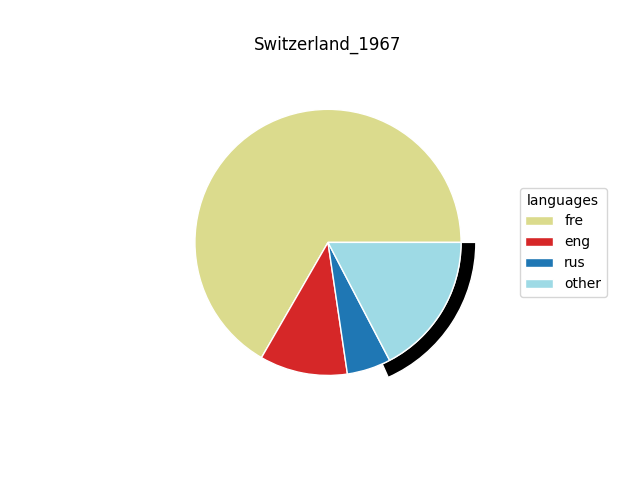
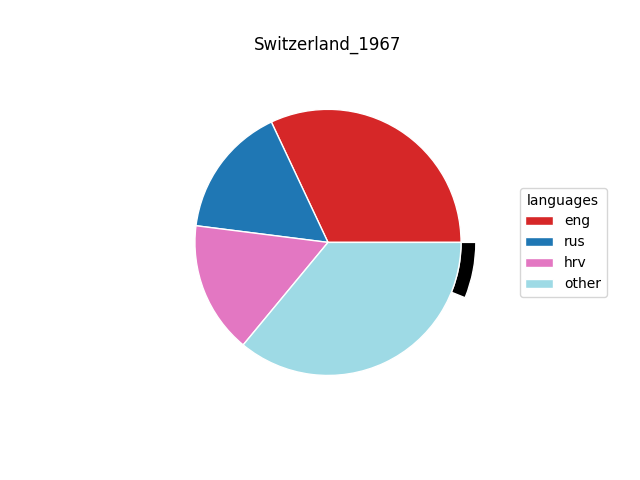
exceptions
exception for Belgium. Czechoslovakia, Switzerland and Yugoslavia

Changed region(s): [[0.2812, 0.2188, 0.7188, 0.7812], [0.8125, 0.5, 0.9375, 0.5625], [0.8125, 0.4375, 0.9375, 0.4688]]

diff --git a/create_pie_charts.py b/create_pie_charts.py
@@ -23,6 +23,8 @@ df = pd.read_excel("D:\\Panuskova\\Nextcloud\\translation-mapping\\translation-m
 countries =["Italy", "Belgium", "United Kingdom", "Czechoslovakia", "Denmark", "Sweden", "Slovakia", "Spain", "Switzerland", "USSR", "Germany (Soviet)", "East Germany",  "Germany", "Yugoslavia", "Poland", "Austria", "Italy", "Hungary"]
 languages = ["rus", "est", "arm", "glg", "ukr", "wen", "eng", "lit", "baq", "dut", "slv", "mac", "hrv", "epo", "hun", "ger", "cat", "fre", "slo", "other"]
 
+except_countries = {"Czechoslovakia" : ["slo"], "Belgium" : ["fre", "dut"],  "Switzerland": ["ger", "fre"], "Yugoslavia": ["hrv"]}
+
 
 my_color_palette = {}
 #all_colors = list(colors.CSS4_COLORS.keys())
@@ -52,15 +54,27 @@ for plot_year in plot_years:
             
             # size of the outer chart
             size = 0.1
-        
-            # major language
-            h_max = max(h.weights)
             
+            # if major language is an exception
+            if country in except_countries.keys():
+                
+                # find weight of that language or sum of languages
+                h_max = sum(h[h['language'].isin(except_countries[country])].weights)
+                
+                # Discard major language
+                h = h[~h['language'].isin(except_countries[country])]
+            else:
+                # major language
+                h_max = max(h.weights)
+            
+                # Discard the most common language (= should be the major language)
+                h = h.iloc[1:, :]
+           
             # outher colors, major will always be transparent, major is displayed as black
             outer_colors = [my_color_palette['eng'] , 'black' ]
 
             # list of outer weights 
-            weights_all = [h_max, sum(h.weights) - h_max ]
+            weights_all = [h_max, sum_weights - h_max ]
             
             # plot
             fig, ax = plt.subplots()
@@ -73,9 +87,6 @@ for plot_year in plot_years:
             
             # set major language transparent
             n[0][0].set_alpha(0.0)
-
-            # Discard the most common language (= should be the major language)
-            h = h.iloc[1:, :]
 
             # if there are minor languages translations
             if not(h.empty):
